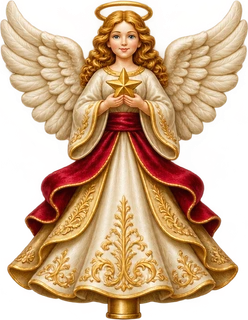
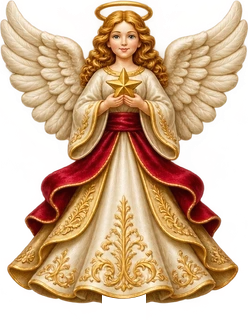
Fit Evergreen toppers to the curved treetop and remove gold mounts

Changed region(s): [[0.3952, 0.9062, 0.5927, 1.0]]

diff --git a/evergreen-pet/art.js b/evergreen-pet/art.js
@@ -65,11 +65,11 @@ function expression(t,state) {
   } else curve(214,345,227,pleased?366:357,241,345,'#2c201c',5);
 }
 
-// Anchor the star and angel at their sockets, and the ribbon at its central knot.
+// Contact points in the artwork: star notch, robe hem, and ribbon knot.
 const toppers = {
-  star: {height:107, anchorX:.50, anchorY:.96},
-  angel: {height:116, anchorX:.50, anchorY:.95},
-  bow: {height:92, anchorX:.50, anchorY:.43}
+  star: {height:107, anchorX:.50, anchorY:.71},
+  angel: {height:116, anchorX:.50, anchorY:.93},
+  bow: {height:92, anchorX:.50, anchorY:.34}
 };
 function drawTopper(kind,x,y) {
   const topper=toppers[kind];
@@ -77,7 +77,7 @@ function drawTopper(kind,x,y) {
   if(!topper.image){
     topper.image=new Image();
     topper.image.onload=refresh;
-    topper.image.src=new URL('topper-'+kind+'.webp',evergreenArtBase);
+    topper.image.src=new URL('topper-'+kind+'.webp?v=2',evergreenArtBase);
   }
   const image=topper.image;
   if(!image.naturalWidth)return;
@@ -123,8 +123,9 @@ function render(state,t,look) {
       ctx.drawImage(layer,180,y,275,height,252+dx,62+y,275,height);
     } else ctx.drawImage(layer,0,y,455,height,72+dx,62+y,455,height);
   }
-  // Seat the socket over the crown, centered on the trunk axis.
-  drawTopper(look.topper,300+tipOffset,80);
+  // At foliage row 18 the curved leader spans source pixels 236–255.
+  const crownX=72+245.5*455/tree.naturalWidth;
+  drawTopper(look.topper,crownX+tipOffset,62+18);
   if(state==='dance'||state==='sleep') {
     ctx.textAlign='center';
     for(let i=0;i<3;i++) {

diff --git a/index.html b/index.html
@@ -81,7 +81,7 @@
   <meta data-pet-runtime="highland" data-pet-runtime-script="highland-pet/interactive.js?v=20261031-lazy-art-v2">
   <meta data-pet-runtime="evergreen" data-pet-runtime-style="evergreen-pet/interactive.css?v=20261123-studio-fit">
   <meta data-pet-runtime="evergreen" data-pet-runtime-script="evergreen-pet/settings.js">
-  <meta data-pet-runtime="evergreen" data-pet-runtime-script="evergreen-pet/art.js?v=20261123-heirloom-toppers">
+  <meta data-pet-runtime="evergreen" data-pet-runtime-script="evergreen-pet/art.js?v=20261123-crown-contact">
   <meta data-pet-runtime="evergreen" data-pet-runtime-script="evergreen-pet/interactive.js">
   <meta data-pet-runtime="nyan" data-pet-runtime-style="nyan-cat-pet/interactive.css?v=20261120-dance-plate">
   <meta data-pet-runtime="nyan" data-pet-runtime-script="nyan-cat-pet/art.js?v=20261120-pixel-snore">
